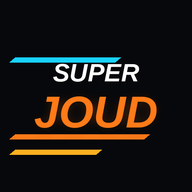
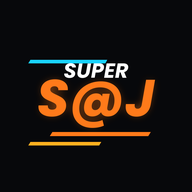
SUPER SEDDIK@JOUD : politique de confidentialité, nouvelle icône S@J, préparation des publicités (application Android)
Claude-Session: https://claude.ai/code/session_0193LcvTRofeWyD2hqUUji5p

Changed region(s): [[0.0312, 0.2812, 0.8438, 0.8125]]

diff --git a/index.html b/index.html
@@ -50,6 +50,11 @@ button{font-family:inherit;color:inherit;cursor:pointer;border:0;background:none
 #topbar>*{pointer-events:auto}
 #topbar .brand{font-family:var(--fh);font-style:italic;font-size:18px;opacity:0;transition:opacity .2s}
 #topbar .brand b{color:var(--acc);margin-left:4px}
+.adbonus{display:flex;align-items:center;gap:6px;font-family:var(--fh);font-size:15px;padding:6px 12px;background:linear-gradient(90deg,#1c8f4a,#26b35f);color:#fff;border:0;clip-path:polygon(8px 0,100% 0,calc(100% - 8px) 100%,0 100%);cursor:pointer;min-height:36px}
+.adbonus svg{width:20px;height:20px}.adbonus.dim{filter:saturate(.25) brightness(.8)}
+.box .adbtn{display:flex;align-items:center;justify-content:center;gap:8px;width:100%;margin:8px 0 2px;padding:11px 14px;font-family:var(--fh);font-size:16px;color:#fff;background:linear-gradient(90deg,#1c8f4a,#2fc46b);border:0;cursor:pointer;min-height:48px}
+.box .adbtn svg{width:22px;height:22px}.box .adbtn.done{background:#24402f;color:#9fe0b6;cursor:default}
+.native #btnFs{display:none}
 .money{font-family:var(--fh);font-size:18px;padding:7px 16px;background:var(--pan);border:1px solid var(--line);clip-path:polygon(10px 0,100% 0,calc(100% - 10px) 100%,0 100%);color:var(--acc2)}
 .icon{width:44px;height:44px;background:var(--pan);border:1px solid var(--line);display:flex;align-items:center;justify-content:center}.icon svg{width:22px;height:22px}
 .screen{position:absolute;inset:0;display:none;padding:64px max(22px,env(safe-area-inset-left)) 22px;pointer-events:none}
@@ -348,6 +353,7 @@ html[lang=ar] .dcard b,html[lang=ar] .dhead h2,html[lang=ar] .drvchip b{font-fam
 <div id="ui">
   <div id="topbar">
     <div class="langs" id="langs"><button data-l="fr">FR</button><button data-l="en">EN</button><button data-l="ar">ع</button></div>
+    <button id="ad-bonus" class="adbonus hidden"><svg viewBox="0 0 24 24"><rect x="2.5" y="5" width="19" height="14" rx="2.5" fill="none" stroke="currentColor" stroke-width="2"/><path d="M10 9.2v5.6l4.8-2.8z" fill="currentColor"/></svg><b>+1 000 $</b></button>
     <div class="money" id="money">$ 0</div>
     <button id="btnFs" class="icon" title="Plein écran" aria-label="Plein écran"><svg viewBox="0 0 24 24"><path d="M4 9V4h5M20 9V4h-5M4 15v5h5M20 15v5h-5" fill="none" stroke="currentColor" stroke-width="2.2"/></svg></button>
   </div>
@@ -4220,6 +4226,136 @@ function renderGarage(dt) {
 
 'use strict';
 /* =====================================================================
+   Publicités AdMob — uniquement dans l'application Android (Capacitor).
+   Sur le site web, ADS.on reste faux : aucune publicité, aucun bouton.
+   Identifiants : window.SJ_ADS (injecté à la compilation Android) ;
+   sinon identifiants de TEST officiels de Google (pubs marquées « Test Ad »).
+   Emplacements :
+   - vidéo récompensée « Doubler les gains » sur l'écran de résultats ;
+   - vidéo récompensée « +1 000 $ » dans la barre du haut (toutes les 4 min, 15 par jour) ;
+   - interstitiel à une pause naturelle : en quittant les résultats, 1 course sur 3, au plus toutes les 4 min.
+   ===================================================================== */
+Object.assign(LANGS.fr, { adDouble: 'Doubler les gains : +{0}', adDoubled: 'Gains doublés : +{0}', adBonus: '+{0}', adBonusTitle: 'Regarder une courte vidéo pour gagner {0}', adThanks: 'Merci ! +{0}', adNone: 'Aucune vidéo disponible pour le moment, réessaie dans un instant.', adWait: 'Prochain bonus vidéo dans {0}', adDay: 'Bonus vidéo épuisés pour aujourd\'hui. Reviens demain !', adNoReward: 'Vidéo interrompue : pas de récompense.', o_ads: 'Publicités', o_adsPriv: 'Confidentialité des pubs', o_adsInfo: 'Les publicités financent le jeu. Tu choisis toujours de regarder une vidéo récompensée.' });
+Object.assign(LANGS.en, { adDouble: 'Double your winnings: +{0}', adDoubled: 'Winnings doubled: +{0}', adBonus: '+{0}', adBonusTitle: 'Watch a short video to earn {0}', adThanks: 'Thanks! +{0}', adNone: 'No video available right now, try again in a moment.', adWait: 'Next video bonus in {0}', adDay: 'No more video bonuses today. Come back tomorrow!', adNoReward: 'Video closed early: no reward.', o_ads: 'Ads', o_adsPriv: 'Ad privacy', o_adsInfo: 'Ads keep the game free. Rewarded videos are always your choice.' });
+Object.assign(LANGS.ar, { adDouble: 'ضاعف أرباحك: +{0}', adDoubled: 'تمت مضاعفة الأرباح: +{0}', adBonus: '+{0}', adBonusTitle: 'شاهد فيديو قصيرًا واربح {0}', adThanks: 'شكرًا! +{0}', adNone: 'لا يوجد فيديو متاح الآن، حاول بعد قليل.', adWait: 'المكافأة التالية بعد {0}', adDay: 'انتهت مكافآت الفيديو لليوم. عد غدًا!', adNoReward: 'أُغلق الفيديو مبكرًا: لا مكافأة.', o_ads: 'الإعلانات', o_adsPriv: 'خصوصية الإعلانات', o_adsInfo: 'الإعلانات تجعل اللعبة مجانية. مشاهدة الفيديو بمكافأة اختيارية دائمًا.' });
+
+const ADS = {
+  on: false, ready: false, inter: false, busy: false, earned: false, cb: null, P: null, cfg: null, privacy: false,
+  races: 0, lastInter: 0, lastReward: 0,
+  BONUS: 1000, BONUS_CD: 4 * 60 * 1000, BONUS_MAX: 15,
+  native() { const C = window.Capacitor; return !!(C && C.isNativePlatform && C.isNativePlatform()); },
+  plugin(name) { const C = window.Capacitor; return C && ((C.Plugins && C.Plugins[name]) || (C.registerPlugin && C.registerPlugin(name))); },
+  async init() {
+    if (!this.native()) return;
+    document.body.classList.add('native');
+    this.backButton();
+    const P = this.plugin('AdMob'); if (!P) return;
+    this.P = P;
+    this.cfg = Object.assign({ test: true, rewarded: 'ca-app-pub-3940256099942544/5224354917', interstitial: 'ca-app-pub-3940256099942544/1033173712' }, window.SJ_ADS || {});
+    try {
+      await P.initialize({ initializeForTesting: !!this.cfg.test });
+      // consentement (RGPD / UMP) : le formulaire ne s'affiche que là où la loi l'exige
+      try {
+        const ci = await P.requestConsentInfo();
+        if (ci && ci.isConsentFormAvailable && ci.status === 'REQUIRED') await P.showConsentForm();
+        this.privacy = !!(ci && ci.isConsentFormAvailable) && typeof P.showPrivacyOptionsForm === 'function';
+      } catch (e) { }
+      P.addListener('onRewardedVideoAdReward', () => { this.earned = true; });
+      P.addListener('onRewardedVideoAdDismissed', () => this.closed(false));
+      P.addListener('onRewardedVideoAdFailedToShow', () => this.closed(true));
+      P.addListener('interstitialAdDismissed', () => this.interClosed());
+      P.addListener('interstitialAdFailedToShow', () => this.interClosed());
+      this.on = true;
+      this.load(); this.loadInter();
+      setInterval(() => this.refresh(), 1000);
+    } catch (e) { this.on = false; }
+    this.refresh();
+  },
+  async load() {
+    if (!this.on || this.loading) return; this.loading = true;
+    try { await this.P.prepareRewardVideoAd({ adId: this.cfg.rewarded, isTesting: !!this.cfg.test, immersiveMode: true }); this.ready = true; }
+    catch (e) { this.ready = false; setTimeout(() => this.load(), 45000); }
+    this.loading = false; this.refresh();
+  },
+  async loadInter() {
+    if (!this.on || this.loadingI) return; this.loadingI = true;
+    try { await this.P.prepareInterstitial({ adId: this.cfg.interstitial, isTesting: !!this.cfg.test, immersiveMode: true }); this.inter = true; }
+    catch (e) { this.inter = false; setTimeout(() => this.loadInter(), 90000); }
+    this.loadingI = false;
+  },
+  mute(on) { try { if (AU.ctx) { if (on) AU.ctx.suspend(); else AU.ctx.resume(); } } catch (e) { } },
+  // vidéo récompensée : cb(true) seulement si la vidéo a été regardée jusqu'au bout
+  show(cb) {
+    if (!this.on || this.busy) return false;
+    if (!this.ready) { toast(t('adNone')); this.load(); return false; }
+    this.busy = true; this.earned = false; this.cb = cb; this.ready = false; this.mute(true);
+    this.P.showRewardVideoAd().catch(() => this.closed(true));
+    return true;
+  },
+  closed(fail) {
+    if (!this.busy) return;
+    this.busy = false; this.mute(false);
+    const ok = this.earned && !fail, cb = this.cb; this.cb = null; this.earned = false;
+    if (ok) this.lastReward = Date.now(); else toast(t(fail ? 'adNone' : 'adNoReward'));
+    if (cb) cb(ok);
+    this.load(); this.refresh();
+  },
+  // interstitiel à une transition naturelle (en quittant l'écran de résultats), avec plafonnement
+  gate(next) {
+    const now = Date.now();
+    this.races++;
+    if (this.on && this.inter && !this.busy && this.races % 3 === 0 && now - this.lastInter > 240000 && now - this.lastReward > 90000) {
+      this.lastInter = now; this.inter = false; this.afterInter = next; this.mute(true);
+      this.P.showInterstitial().catch(() => this.interClosed());
+      return;
+    }
+    next();
+  },
+  interClosed() { this.mute(false); const n = this.afterInter; this.afterInter = null; this.loadInter(); if (n) n(); },
+  // bonus vidéo de la barre du haut
+  day() { const d = new Date(); return d.getFullYear() * 1000 + d.getMonth() * 40 + d.getDate(); },
+  bonusState() {
+    const a = SAVE.ads || (SAVE.ads = { day: 0, n: 0, last: 0 });
+    if (a.day !== this.day()) { a.day = this.day(); a.n = 0; }
+    if (a.n >= this.BONUS_MAX) return { ok: false, why: 'day' };
+    const wait = a.last + this.BONUS_CD - Date.now();
+    return wait > 0 ? { ok: false, why: 'wait', wait } : { ok: true };
+  },
+  bonus() {
+    const st = this.bonusState();
+    if (!st.ok) { toast(st.why === 'day' ? t('adDay') : t('adWait', fmtCd(st.wait))); return; }
+    this.show(ok => {
+      if (!ok) return;
+      const a = SAVE.ads; a.n++; a.last = Date.now();
+      SAVE.money += this.BONUS; saveGame(); UI.updMoney(); toast(t('adThanks', money(this.BONUS)));
+      AU.shot(1200, 0.08, 'sine', 0.06);
+    });
+  },
+  refresh() {
+    const b = $('ad-bonus'); if (!b) return;
+    b.classList.toggle('hidden', !this.on);
+    if (!this.on) return;
+    const st = this.bonusState();
+    b.classList.toggle('dim', !st.ok || !this.ready);
+    b.querySelector('b').textContent = st.ok ? t('adBonus', money(this.BONUS)) : st.why === 'wait' ? fmtCd(st.wait) : '—';
+    b.title = t('adBonusTitle', money(this.BONUS));
+  },
+  // bouton retour Android : pause en course, sinon retour au menu, sinon mise en arrière-plan
+  backButton() {
+    const App = this.plugin('App'); if (!App || !App.addListener) return;
+    App.addListener('backButton', () => {
+      if ($('results').classList.contains('show')) { UI.quit(); return; }
+      if (G.state === 'race' || G.state === 'countdown') { UI.pause(true); return; }
+      if (G.state === 'paused') { UI.pause(false); return; }
+      if (UI.screen && UI.screen !== 'main') { UI.show('main'); return; }
+      if (App.minimizeApp) App.minimizeApp();
+    });
+  },
+};
+function fmtCd(ms) { const s = Math.max(0, Math.ceil(ms / 1000)); return Math.floor(s / 60) + ':' + String(s % 60).padStart(2, '0'); }
+
+'use strict';
+/* =====================================================================
    Interface : menus, garage, HUD, options, sauvegarde, boucle principale
    ===================================================================== */
 const $ = id => document.getElementById(id);
@@ -4393,6 +4529,7 @@ const UI = {
       row(t('o_sens'), rng('sens', 50, 150)), row(t('o_opacity'), rng('opacity', 25, 100)),
       row(t('o_vibe'), seg('vibe', [[true, t('yes')], [false, t('no')]])),
       row(t('o_save'), `<div><button class="danger" id="o-reset">${t('o_reset')}</button></div>`),
+      ADS.on ? row(t('o_ads'), `<div>${ADS.privacy ? `<button id="o-adpriv">${t('o_adsPriv')}</button>` : ''}<p class="note">${t('o_adsInfo')}</p></div>`) : '',
       `<p class="note">${t('o_note')}</p>`,
     ].join('');
     $('o-panel').querySelectorAll('.seg').forEach(g => g.querySelectorAll('button').forEach(b => b.onclick = () => {
@@ -4401,6 +4538,7 @@ const UI = {
       saveGame(); applySettings(); if (k === 'lang') { LANG = s.lang; applyI18n(); } this.renderOptions(); AU.shot(800, 0.04, 'sine', 0.05);
     }));
     $('o-panel').querySelectorAll('input[type=range]').forEach(i => i.oninput = () => { s[i.dataset.k] = +i.value; saveGame(); applySettings(); });
+    if ($('o-adpriv')) $('o-adpriv').onclick = () => { try { ADS.P.showPrivacyOptionsForm().catch(() => { }); } catch (e) { } };
     $('o-reset').onclick = () => this.confirm(t('resetConfirm'), () => { const st = SAVE.settings; SAVE = defaultSave(); SAVE.settings = st; saveGame(); this.show('main'); });
   },
   renderHelp() {
@@ -4485,13 +4623,23 @@ const UI = {
     if (ev !== null) evLine = res.success ? `<p class="okline">${res.firstWin ? t('r_evOk', tEvName(ev)) : t('r_evAgain')}</p>` : `<p class="failline">${t('r_evFail', tEvName(ev))}</p>`;
     const next = ev !== null && res.success && ev + 1 < CAREER.length;
     $('res-body').innerHTML = `<div class="res-title ${cls}">${title}</div><div class="note">${modeName(res.mode)}, ${T.name}${res.record ? ` — <b class="rec">${t('r_record')}</b>` : ''}</div><div class="rcols"><div class="rcol1">${body}${evLine}</div><div class="rcol2">
-      <div class="rgrid"><span>${t('r_reward')}</span><b>${money(res.reward)}</b><span>${t('r_style', res.style)}</span><b>${money(res.styleBonus)}</b><span>${t('r_gain')}</span><b class="tot">${money(res.total)}</b><span>${t('r_money')}</span><b>${money(SAVE.money)}</b></div>
+      <div class="rgrid"><span>${t('r_reward')}</span><b>${money(res.reward)}</b><span>${t('r_style', res.style)}</span><b>${money(res.styleBonus)}</b><span>${t('r_gain')}</span><b class="tot">${money(res.total)}</b><span>${t('r_money')}</span><b id="r-money">${money(SAVE.money)}</b></div>
+      ${ADS.on && res.total > 0 ? `<button id="r-ad" class="adbtn"><svg viewBox="0 0 24 24"><rect x="2.5" y="5" width="19" height="14" rx="2.5" fill="none" stroke="currentColor" stroke-width="2"/><path d="M10 9.2v5.6l4.8-2.8z" fill="currentColor"/></svg>${t('adDouble', money(res.total))}</button>` : ''}
       <div class="rbtns"><button id="r-menu">${t('r_menu')}</button><button id="r-garage">${t('r_garage')}</button><button id="r-again" class="${next ? '' : 'cta'}">${t('r_again')}</button>${next ? `<button id="r-next" class="cta">${t('r_next')}</button>` : ''}</div></div></div>`;
     $('results').classList.add('show'); MUS.muffle(true);
-    $('r-menu').onclick = () => this.quit();
-    $('r-garage').onclick = () => { this.quit(); this.show('garage'); };
-    $('r-again').onclick = () => this.startRace(Object.assign({}, this.lastCfg));
-    if ($('r-next')) $('r-next').onclick = () => this.startRace(evCfg(ev + 1));
+    // en quittant les résultats : éventuel interstitiel (1 course sur 3, application Android seulement)
+    $('r-menu').onclick = () => ADS.gate(() => this.quit());
+    $('r-garage').onclick = () => ADS.gate(() => { this.quit(); this.show('garage'); });
+    $('r-again').onclick = () => ADS.gate(() => this.startRace(Object.assign({}, this.lastCfg)));
+    if ($('r-next')) $('r-next').onclick = () => ADS.gate(() => this.startRace(evCfg(ev + 1)));
+    if ($('r-ad')) $('r-ad').onclick = () => {
+      const b = $('r-ad'); if (b.disabled) return;
+      ADS.show(ok => {
+        if (!ok) return;
+        SAVE.money += res.total; saveGame(); this.updMoney();
+        b.disabled = true; b.classList.add('done'); b.textContent = t('adDoubled', money(res.total)); $('r-money').textContent = money(SAVE.money);
+      });
+    };
     setTimeout(() => { const b = $('r-next') || $('r-again'); if (b) b.focus(); }, 50);
   },
 };
@@ -4713,6 +4861,7 @@ function bindInputs() {
   $('h-cam').onclick = () => { G.camMode = (G.camMode + 1) % 3; };
   $('rot-ok').onclick = () => { UI.rotOk = true; $('rotate').classList.remove('show'); };
   addEventListener('resize', () => { if (IS_TOUCH && innerWidth > innerHeight) $('rotate').classList.remove('show'); });
+  $('ad-bonus').onclick = () => ADS.bonus();
   $('btnFs').onclick = () => {
     try {
       const d = document.documentElement;
@@ -4763,6 +4912,7 @@ function boot() {
   setTimeout(() => $('loading').classList.remove('show'), 350);
   if (safe) setTimeout(() => toast(t('safeMode')), 900);
   BOOT_FRAMES = 0;
+  ADS.init();
   requestAnimationFrame(x => { LAST = x; frame(x); });
 }
 window.addEventListener('load', boot);

diff --git a/privacy.html b/privacy.html
@@ -1,0 +1,124 @@
+<!DOCTYPE html>
+<html lang="fr">
+<head>
+<meta charset="utf-8">
+<meta name="viewport" content="width=device-width, initial-scale=1">
+<title>Politique de confidentialité — SUPER SEDDIK@JOUD</title>
+<link rel="icon" type="image/png" href="icons/icon-192.png">
+<style>
+  :root { --bg: #07080b; --pan: #12141b; --txt: #e8eaf0; --mut: #9aa0b0; --acc: #ff7a1a; --acc2: #19d3ff; }
+  * { box-sizing: border-box; }
+  body { margin: 0; background: var(--bg); color: var(--txt); font: 16px/1.6 system-ui, -apple-system, "Segoe UI", Roboto, sans-serif; }
+  header { padding: 28px 20px 18px; border-bottom: 1px solid #222634; background: linear-gradient(90deg, #0d0f15, #161a24); }
+  header .logo { font: italic 800 26px/1.1 system-ui, sans-serif; letter-spacing: .02em; }
+  header .logo span { color: var(--acc); }
+  nav { margin-top: 12px; display: flex; gap: 8px; flex-wrap: wrap; }
+  nav a { color: var(--txt); text-decoration: none; padding: 6px 12px; border: 1px solid #2a2f3e; border-radius: 6px; font-size: 14px; }
+  nav a:hover { border-color: var(--acc); }
+  main { max-width: 860px; margin: 0 auto; padding: 10px 20px 60px; }
+  section.lang { padding-top: 18px; border-bottom: 1px solid #1d212d; padding-bottom: 26px; }
+  h1 { font-size: 24px; margin: 18px 0 4px; }
+  h2 { font-size: 18px; margin: 24px 0 6px; color: var(--acc2); }
+  p, li { color: #d3d6df; }
+  .date { color: var(--mut); font-size: 14px; }
+  a { color: var(--acc2); }
+  [dir="rtl"] { text-align: right; }
+</style>
+</head>
+<body>
+<header>
+  <div class="logo">SUPER <span>SEDDIK@JOUD</span></div>
+  <nav><a href="#fr">Français</a><a href="#en">English</a><a href="#ar">العربية</a></nav>
+</header>
+<main>
+
+<section class="lang" id="fr" lang="fr">
+  <h1>Politique de confidentialité</h1>
+  <p class="date">Application et jeu « SUPER SEDDIK@JOUD » — dernière mise à jour : 8 novembre 2026</p>
+
+  <h2>1. Qui est responsable</h2>
+  <p>SUPER SEDDIK@JOUD est un jeu de course automobile publié par un développeur indépendant basé en Tunisie. Pour toute question sur cette politique, écrivez à l'adresse e-mail de contact affichée sur la fiche Google Play de l'application.</p>
+
+  <h2>2. Données du jeu</h2>
+  <p>Votre progression (argent virtuel, véhicules, pilotes, réglages, records) est enregistrée uniquement sur votre appareil. Nous ne créons pas de compte, nous ne demandons ni votre nom, ni votre adresse e-mail, ni votre numéro de téléphone, et nous ne recevons pas ces données.</p>
+
+  <h2>3. Publicités dans l'application Android (Google AdMob)</h2>
+  <p>L'application Android affiche des publicités fournies par Google AdMob : des vidéos récompensées que vous choisissez de regarder (par exemple pour doubler vos gains) et, de temps en temps, une publicité plein écran entre deux courses. Pour afficher et mesurer ces publicités et lutter contre la fraude, Google peut collecter et traiter :</p>
+  <ul>
+    <li>l'identifiant publicitaire de l'appareil ;</li>
+    <li>l'adresse IP, qui permet d'estimer une localisation approximative (pays, ville) ;</li>
+    <li>des informations sur l'appareil et le système (modèle, version d'Android, langue) ;</li>
+    <li>vos interactions avec les publicités et des données de diagnostic.</li>
+  </ul>
+  <p>Dans l'Espace économique européen, au Royaume-Uni et en Suisse, un message de consentement de Google vous permet de choisir entre publicités personnalisées ou non. Vous pouvez revoir ce choix à tout moment dans Options → Publicités → « Confidentialité des pubs ». Sur tout appareil Android, vous pouvez réinitialiser ou supprimer votre identifiant publicitaire dans les paramètres du téléphone (Google → Annonces).</p>
+  <p>Pour en savoir plus : <a href="https://policies.google.com/technologies/partner-sites" rel="noopener">comment Google utilise les données des applications partenaires</a> et <a href="https://policies.google.com/privacy" rel="noopener">règles de confidentialité de Google</a>.</p>
+
+  <h2>4. Version web</h2>
+  <p>La version jouable dans le navigateur n'affiche aucune publicité et n'utilise pas de cookies. Les polices de caractères sont chargées depuis Google Fonts, ce qui transmet votre adresse IP à Google. L'hébergeur du site peut conserver des journaux techniques de connexion.</p>
+
+  <h2>5. Enfants</h2>
+  <p>Le jeu ne s'adresse pas aux enfants de moins de 13 ans et nous ne collectons pas sciemment de données les concernant.</p>
+
+  <h2>6. Sécurité et conservation</h2>
+  <p>Les échanges avec les serveurs de Google sont chiffrés (HTTPS). Les données de progression restent sur votre appareil jusqu'à ce que vous désinstalliez l'application ou effaciez ses données.</p>
+
+  <h2>7. Vos choix</h2>
+  <ul>
+    <li>Effacer votre progression : Options → Progression → « Réinitialiser la sauvegarde », ou désinstaller l'application.</li>
+    <li>Publicités personnalisées : Options → Publicités, et les paramètres Android de votre téléphone.</li>
+    <li>Une vidéo récompensée n'est jamais obligatoire pour jouer.</li>
+  </ul>
+
+  <h2>8. Modifications</h2>
+  <p>Cette politique peut évoluer avec le jeu. La date de mise à jour figure en haut de cette page.</p>
+</section>
+
+<section class="lang" id="en" lang="en">
+  <h1>Privacy policy</h1>
+  <p class="date">“SUPER SEDDIK@JOUD” app and game — last updated: November 8, 2026</p>
+  <h2>1. Who is responsible</h2>
+  <p>SUPER SEDDIK@JOUD is a racing game published by an independent developer based in Tunisia. For any question about this policy, write to the contact email shown on the app's Google Play page.</p>
+  <h2>2. Game data</h2>
+  <p>Your progress (virtual money, vehicles, drivers, settings, records) is stored only on your device. We do not create accounts, we do not ask for your name, email or phone number, and we do not receive such data.</p>
+  <h2>3. Ads in the Android app (Google AdMob)</h2>
+  <p>The Android app shows ads served by Google AdMob: rewarded videos that you choose to watch (for example to double your winnings) and, occasionally, a full-screen ad between two races. To show and measure these ads and to prevent fraud, Google may collect and process your device's advertising ID, your IP address (used to estimate an approximate location), device and system information (model, Android version, language), and your interactions with ads and diagnostic data.</p>
+  <p>In the European Economic Area, the United Kingdom and Switzerland, a Google consent message lets you choose between personalized and non-personalized ads. You can review this choice at any time in Options → Ads → “Ad privacy”. On any Android device you can reset or delete your advertising ID in the phone settings (Google → Ads).</p>
+  <p>Learn more: <a href="https://policies.google.com/technologies/partner-sites" rel="noopener">how Google uses data from partner apps</a> and <a href="https://policies.google.com/privacy" rel="noopener">Google Privacy Policy</a>.</p>
+  <h2>4. Web version</h2>
+  <p>The browser version shows no ads and uses no cookies. Fonts are loaded from Google Fonts, which shares your IP address with Google. The website host may keep technical connection logs.</p>
+  <h2>5. Children</h2>
+  <p>The game is not directed at children under 13 and we do not knowingly collect data about them.</p>
+  <h2>6. Security and retention</h2>
+  <p>Communication with Google's servers is encrypted (HTTPS). Progress data stays on your device until you uninstall the app or clear its data.</p>
+  <h2>7. Your choices</h2>
+  <p>Erase your progress in Options → Progress → “Reset save data”, or uninstall the app. Manage personalized ads in Options → Ads and in your phone's Android settings. Rewarded videos are never required to play.</p>
+  <h2>8. Changes</h2>
+  <p>This policy may change as the game evolves. The update date is shown at the top of this section.</p>
+</section>
+
+<section class="lang" id="ar" lang="ar" dir="rtl">
+  <h1>سياسة الخصوصية</h1>
+  <p class="date">تطبيق ولعبة «SUPER SEDDIK@JOUD» — آخر تحديث: 8 نوفمبر 2026</p>
+  <h2>1. المسؤول</h2>
+  <p>SUPER SEDDIK@JOUD لعبة سباق سيارات ينشرها مطوّر مستقل مقيم في تونس. لأي سؤال حول هذه السياسة، راسلنا على عنوان البريد الإلكتروني المعروض في صفحة التطبيق على Google Play.</p>
+  <h2>2. بيانات اللعبة</h2>
+  <p>يُحفظ تقدّمك (المال الافتراضي، المركبات، السائقون، الإعدادات، الأرقام القياسية) على جهازك فقط. لا ننشئ حسابات، ولا نطلب اسمك أو بريدك الإلكتروني أو رقم هاتفك، ولا نتلقى هذه البيانات.</p>
+  <h2>3. الإعلانات في تطبيق أندرويد (Google AdMob)</h2>
+  <p>يعرض تطبيق أندرويد إعلانات من Google AdMob: مقاطع فيديو بمكافأة تختار مشاهدتها (مثلًا لمضاعفة أرباحك)، وأحيانًا إعلانًا بملء الشاشة بين سباقين. لعرض هذه الإعلانات وقياسها ومكافحة الاحتيال، قد تجمع Google وتعالج: معرّف الإعلانات للجهاز، وعنوان IP (لتقدير موقع تقريبي)، ومعلومات الجهاز والنظام، وتفاعلاتك مع الإعلانات وبيانات التشخيص.</p>
+  <p>في المنطقة الاقتصادية الأوروبية والمملكة المتحدة وسويسرا، تتيح لك رسالة موافقة من Google الاختيار بين الإعلانات المخصّصة وغير المخصّصة. يمكنك مراجعة اختيارك في الخيارات ← الإعلانات ← «خصوصية الإعلانات». ويمكنك على أي جهاز أندرويد إعادة تعيين معرّف الإعلانات أو حذفه من إعدادات الهاتف (Google ← الإعلانات).</p>
+  <p>لمزيد من المعلومات: <a href="https://policies.google.com/technologies/partner-sites" rel="noopener">كيف تستخدم Google بيانات التطبيقات الشريكة</a> و<a href="https://policies.google.com/privacy" rel="noopener">سياسة خصوصية Google</a>.</p>
+  <h2>4. نسخة الويب</h2>
+  <p>لا تعرض نسخة المتصفح أي إعلانات ولا تستخدم ملفات تعريف الارتباط. تُحمَّل الخطوط من Google Fonts، مما يرسل عنوان IP الخاص بك إلى Google. قد يحتفظ مضيف الموقع بسجلات اتصال تقنية.</p>
+  <h2>5. الأطفال</h2>
+  <p>اللعبة غير موجّهة للأطفال دون 13 عامًا، ولا نجمع عن علم أي بيانات تخصهم.</p>
+  <h2>6. الأمان والاحتفاظ</h2>
+  <p>الاتصالات مع خوادم Google مشفّرة (HTTPS). تبقى بيانات التقدّم على جهازك حتى تحذف التطبيق أو تمسح بياناته.</p>
+  <h2>7. خياراتك</h2>
+  <p>امسح تقدّمك من الخيارات ← التقدّم ← «مسح الحفظ»، أو احذف التطبيق. تحكّم في الإعلانات المخصّصة من الخيارات ← الإعلانات ومن إعدادات أندرويد. مشاهدة الفيديو بمكافأة ليست إلزامية أبدًا للعب.</p>
+  <h2>8. التعديلات</h2>
+  <p>قد تتغير هذه السياسة مع تطوّر اللعبة. يظهر تاريخ التحديث في أعلى هذا القسم.</p>
+</section>
+
+</main>
+</body>
+</html>

diff --git a/sw.js b/sw.js
@@ -1,5 +1,5 @@
 /* SUPER SEDDIK@JOUD — service worker : le jeu se lance hors ligne après la première ouverture. */
-const VERSION = 'super-joud-v9';
+const VERSION = 'super-joud-v10';
 const FONTS = 'super-joud-fonts';
 const CORE = [
   './',
